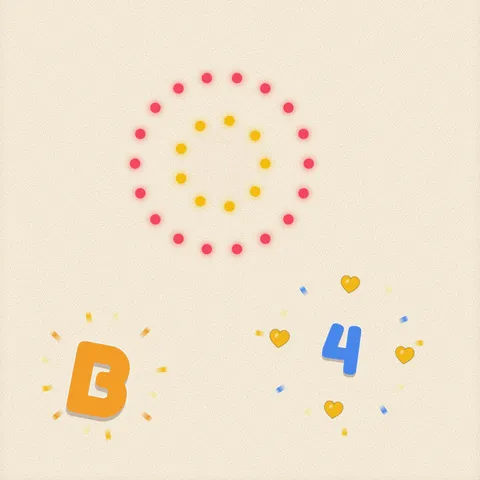
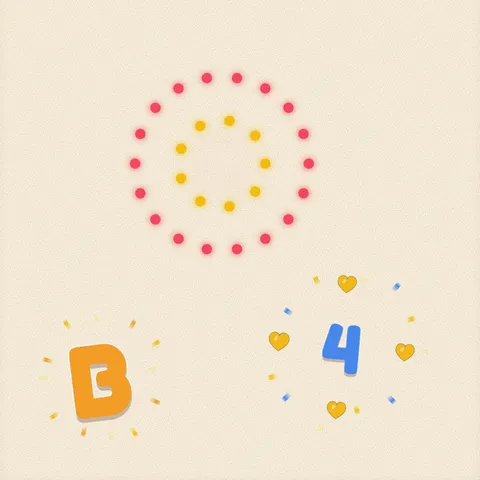
Zaubertasten: a letter's spark burst is one layer that lets go when done, not twelve held for its whole stay
The twelve streaks of every letter, digit and shape were each a layer (will-change, fill both) for the letter's whole
2.2 s, up to about a hundred while smashing: letters alone took 42 % of an old phone's main thread, both hands 81 %
(budget 60 %). Now the streaks stand inside one layer that grows out and fades: about 22 % and 49 %. Poster redone.

diff --git a/src/games/tapaway/tapaway.css b/src/games/tapaway/tapaway.css
@@ -58,11 +58,16 @@
 }
 
 /* The burst behind a glyph or shape: short streaks of light flying out from its middle as it pops in, fading as they
-   go – a little firework with every press. Each streak is its own small layer; its tail fades into the page. */
+   go – a little firework with every press. The streaks stand still at their place inside one layer, which grows out
+   from the middle and fades: one layer for the whole burst, never one per streak, which kept a dozen layers per letter
+   for its whole stay – up to a hundred while a hand smashed, and an old phone's main thread over budget (November 2026,
+   `bun run perf zaubertasten`). Filled only backwards and invisible on its own, it lets go of its layer once over. */
 .tw-burst {
   position: absolute;
   width: 0;
   height: 0;
+  opacity: 0;
+  animation: tw-burst 0.9s cubic-bezier(0.2, 0.7, 0.3, 1) 0.08s backwards;
 }
 
 .tw-spark {
@@ -73,20 +78,19 @@
   border-radius: 3px;
   background: linear-gradient(90deg, transparent, var(--c) 65%, #fff);
   transform-origin: 0 50%;
-  will-change: transform, opacity;
-  animation: tw-spark 0.9s cubic-bezier(0.2, 0.7, 0.3, 1) 0.08s both;
+  transform: rotate(var(--a)) translateX(var(--d)) scaleX(0.6);
 }
 
-@keyframes tw-spark {
+@keyframes tw-burst {
   0% {
-    transform: rotate(var(--a)) translateX(0) scaleX(0.4);
+    transform: scale(0.08);
     opacity: 1;
   }
   70% {
     opacity: 1;
   }
   100% {
-    transform: rotate(var(--a)) translateX(var(--d)) scaleX(0.6);
+    transform: scale(1);
     opacity: 0;
   }
 }

diff --git a/src/games/tapaway/CLAUDE.md b/src/games/tapaway/CLAUDE.md
@@ -19,7 +19,9 @@ its address stays `/drauflos/`.
   plop (`shapes.tsx`, drawn, never emoji), else only ripples. Fireworks come three times as often as the other kinds
   (`TAP_AWAY_SURPRISES.bag`, `FIREWORK_KINDS`), over half of all surprises.
 - Every letter, digit and shape bursts onto the page with a small ring of sparks flying out (`POP_SPARKS` streaks,
-  `.tw-burst`), a little firework with every press. Each surprise is one thing aimed at that spot – one
+  `.tw-burst`), a little firework with every press. The streaks stand still inside one layer that grows out and fades,
+  and lets go of its layer once over (fill `backwards`): one layer per streak, held for the letter's whole stay, kept up to
+  a hundred layers on the page and put letters alone at 42 % of an old phone's main thread (November 2026). Each surprise is one thing aimed at that spot – one
   balloon, one flower, one ball, bubbles round it rather than rising away (user feedback, 25 November 2026; the rule
   stands with the surprises in `src/games/letters/CLAUDE.md`): several things at once come from several presses,
   never from one.
@@ -46,10 +48,12 @@ its address stays `/drauflos/`.
   at most `MAX_SPARKLES`, and every limit kept in `tapaway.test.ts`.
 - Presses that only ripple share one ripple when they land within `RIPPLE_GAP_MS` of each other (a palm on the keys,
   several fingers at once): each ripple is two rings, each a layer, and both hands smashing kept about 18 rings on the
-  page, which alone took a fifth of an old phone's main thread (November 2026: „Mit beiden Händen“ in `bun run perf
-  zaubertasten` went from about 66 % busy to 52 %, over the budget of 60 % before). A child's single taps still each get
-  theirs. The more there is on the page at once, the dearer each frame's commit of all its layers (the canvas surprises
-  draw in every frame): a new thing that comes often counts its layers against that stretch.
+  page, which alone took a fifth of an old phone's main thread. A child's single taps still each get theirs.
+- **Count the layers** (November 2026, `bun run perf zaubertasten`): every element animated by itself is a layer while
+  it runs (and while `will-change` or a forward fill holds it), and the canvas fireworks draw in every frame, so each
+  frame's commit carries all of them – the more on the page at once, the dearer every frame. Something that comes with
+  every press (a burst, a ring) is one layer, and lets go of it when done. With the shared ripples and the burst as one
+  layer, both hands smashing went from 81 % busy (budget 60 %) to about 49 %, letters from 42 % to about 22 %.
 - `bun run perf zaubertasten` measures letters, surprises, taps and both hands at once with a fixed chance
   (`FIXED_CHANCE`), since the random kinds of surprises alone swung a stretch by over ten points; still run it a few
   times before and after a change, and compare the averages.
